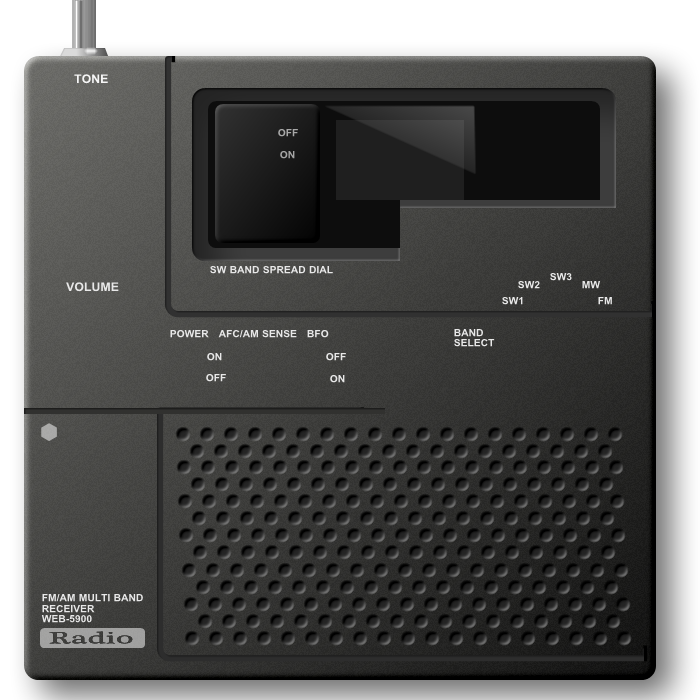
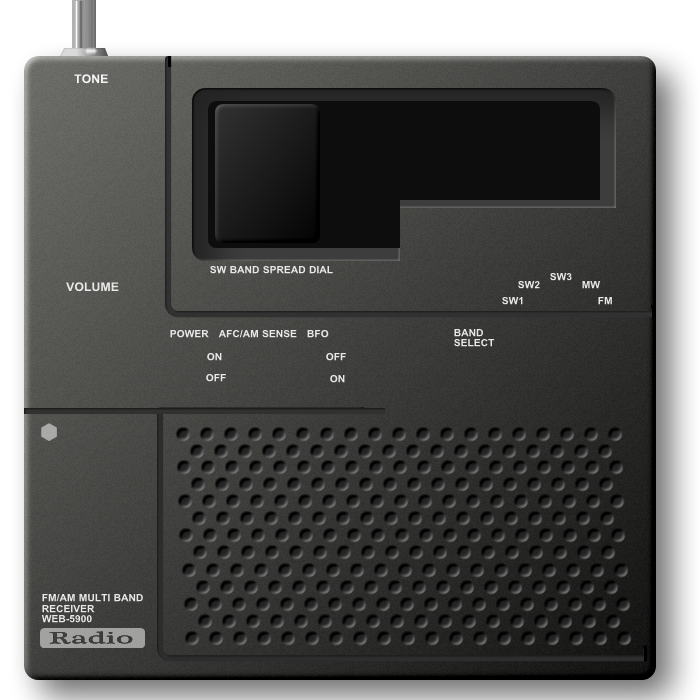
import aike-san's code

Changed region(s): [[0.48, 0.15, 0.69, 0.24], [0.39, 0.18, 0.42, 0.24], [0.24, 0.06, 0.27, 0.09]]

diff --git a/extension/interface-jqskin.js b/extension/interface-jqskin.js
@@ -1,11 +1,69 @@
 //function constructSkin(interface) {
 $(function() {
+
+	// Hide original interface
+	$('.top').css({ display: 'none'});
+	$('.bottom').css({ display: 'none'});
+
+
 	$('<img />').panel({
 		id: 'panel',
 		image: 'images/panel.png',
 		left: 0,
 		top: 0
 	}).appendTo('#draw');
+
+
+	var freq_base = 80.5;
+	var freq_detail = 0;
+	var freq = (freq_base + freq_detail).toFixed(2);
+
+	// Frequency display
+	var num = $('<div>')
+		.css({
+			position: 'absolute',
+			left: 230,
+			top: 120,
+			fontSize: 25,
+			color: '#aaaaaa'
+		})
+		.text(freq)
+		.appendTo('#draw');
+
+	var meter = $('<img />').knob({
+		id: 'meter', image: 'images/meter.png',
+		left: 50 + 276, top: 90 + 15, width: 146, height: 95, value: 50, sense: 500, flames: 31,
+		change: (function() {
+		})
+	}).appendTo('#draw');
+
+	// Center Dial
+	$('<img />').knob({
+		id: 'dial1', image: 'images/dial1.png',
+		left: 50 + 240, top: 90 + 100, width: 220, height: 220, value: 50, sense: 2000, flames: 61,
+		change: (function() {
+			var val = $('#dial1').knob('value');	// 0 .. 100
+			freq_detail = (val - 50) / 50 * 1.5;	// -1.5 .. +1.5
+			freq = (freq_base + freq_detail).toFixed(2);
+			num.text(freq);
+			radio.setFrequency(freq * 1000000);
+		})
+	}).appendTo('#draw');
+
+	// Right Dial
+	$('<img />').knob({
+		id: 'dial2', image: 'images/dial2.png',
+		left: 50 + 460, top: 90 - 10, width: 150, height: 150, value: 50, sense: 1000, flames: 31,
+		change: (function() {
+			var val = $('#dial2').knob('value');
+			meter.knob('value', val);
+			freq_base = 78 + 22 * val / 100;
+			freq = (freq_base + freq_detail).toFixed(2);
+			num.text(freq);
+			radio.setFrequency(freq * 1000000);
+		})
+	}).appendTo('#draw');
+
 
 	// LED
 	$('<img />').switch({
@@ -22,11 +80,11 @@ $(function() {
 	// Toggle Switch
 	$('<img />').switch({
 		id: 'sw',
-		image: 'images/toggle_sw.png',
+		image: 'images/switch.png',
 		left: 170,
 		top: 350,
-		width: 32,
-		height: 32,
+		width: 30,
+		height: 45,
 		value: 0,
 		clickable: true,
 		click: (function() {
@@ -40,8 +98,8 @@ $(function() {
 	
 	// Volume
 	$('<img />').knob({
-		id: 'knob37', image: 'images/knob_white_big_mid.png',
-		left: 60, top: 300, width: 60, height: 60, value: 40,
+		id: 'knob37', image: 'images/knob2.png',
+		left: 40, top: 300, width: 110, height: 110, value: 40,
 		change: (function() {
 			var v = $(this).knob("value") / 100;
 			radio.setVolume(v);

diff --git a/extension/interface.js b/extension/interface.js
@@ -423,6 +423,7 @@ function Interface(fmRadio) {
    */
   function setFrequency(newFreq, bounding) {
     newFreq = freqStep * Math.round(newFreq / freqStep);
+console.log(minFreq + ' ' + maxFreq + ' ' + newFreq + ' ' + bounding);
     if (newFreq >= minFreq && newFreq <= maxFreq) {
       fmRadio.setFrequency(newFreq);
     } else if (bounding && newFreq < minFreq) {

diff --git a/extension/radiocontroller.js b/extension/radiocontroller.js
@@ -45,7 +45,8 @@ function RadioController() {
   var state = new State(STATE.OFF);
   var requestingBlocks = 0;
   var playingBlocks = 0;
-  var frequency = 88500000;
+//  var frequency = 88500000;
+  var frequency = 78500000;
   var stereo = true;
   var stereoEnabled = true;
   var volume = 1;
